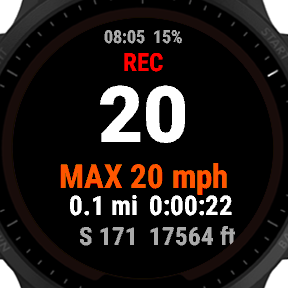
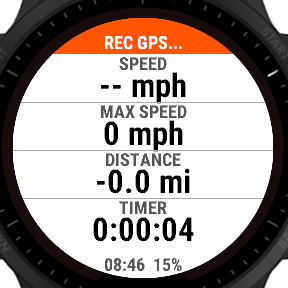
Resilient to missing/flaky GPS; standard white activity-style screens
- Native MapTrackView crashes with no position ever: skip map page until first fix,
  show 'waiting for GPS' if the fix drops later
- Null-safe activity info, GPS position, properties, pause
- One DataPage view (drive/more/summary): white background, title + value rows

diff --git a/README.md b/README.md
@@ -2,25 +2,26 @@
 
 A Connect IQ **watch app** for the Forerunner 955 / Solar (`fr955`, API 5.2, SDK 9.2.0). It records car drives as a `SPORT_DRIVING` FIT activity, so running and cycling stats and PRs are left alone.
 
-| Drive | Map | Stats |
-|---|---|---|
-| ![drive](docs/drive.png) | ![map](docs/map.png) | ![stats](docs/stats.png) |
-| **Summary after save** | **Settings** | **Off course (nav on)** |
-| ![summary](docs/summary.png) | ![settings](docs/settings.png) | ![off course](docs/offcourse.png) |
+| Drive (recording, no GPS yet) | More | Map | Settings |
+|---|---|---|---|
+| ![drive](docs/drive.png) | ![more](docs/stats.png) | ![map](docs/map.png) | ![settings](docs/settings.png) |
 
-<sub>Simulator screenshots: random simulated data, and the simulator was set to statute units. The off-course shot is from a build whose overlay text was clipped; the text is smaller now.</sub>
+<sub>Simulator screenshots, statute units. The summary after saving uses the same white style, with one line per value.</sub>
 
 ## Use
 | Button | Action |
 |---|---|
 | START | Start the drive. Pressing it again pauses and opens Resume / Save / Discard. Discard asks for confirmation. Save shows the summary. |
-| UP / DOWN | Switch pages: Drive → Map → Stats |
+| UP / DOWN | Switch pages: Drive → Map → More. The map is skipped until GPS has had its first fix. |
 | Hold UP | Idle: settings. Map page: pan/zoom mode (BACK leaves it) |
 | BACK | Ignored while a drive is open. If the app is closed anyway, the open drive is saved. |
 
-- **Drive page:** clock and battery, status (GPS… / GPS OK / REC / PAUSED / OFF COURSE), current speed, max speed, distance, timer, GPS heading, altitude.
+Screens look like a standard Garmin activity screen: white background, one field per row, with a small title above a big value. The coloured band at the top shows status: green = GPS OK / REC, orange = no GPS, grey = paused, red = off course. The clock and battery are at the bottom.
+- **Drive page:** speed, max speed, distance, timer.
+- **More page:** average moving speed, stopped time (and number of stops), heading, altitude.
+- **No GPS:** START records right away. The timer runs and GPS keeps searching for the whole drive. Time without a fix counts toward neither moving nor stopped time. If GPS drops, the map page shows "waiting for GPS" instead of the map.
 - **Map page:** the watch's own map centred on you, your blue breadcrumb, and the purple route when navigation is on, with distance left or distance and time off course.
-- **Stats page / summary:** max speed, average moving speed, distance, total time, moving and stopped time, number of stops (stopped ≥ 10 s), ascent and descent, min and max altitude.
+- **Summary after save:** max speed, average moving speed, distance, total time, moving and stopped time, number of stops (stopped ≥ 10 s), ascent and descent, min and max altitude.
 - **Vibration** on start and pause. Leaving the route for more than 5 s triggers a tone and a long vibration.
 - **Units** follow the watch's system settings.
 
